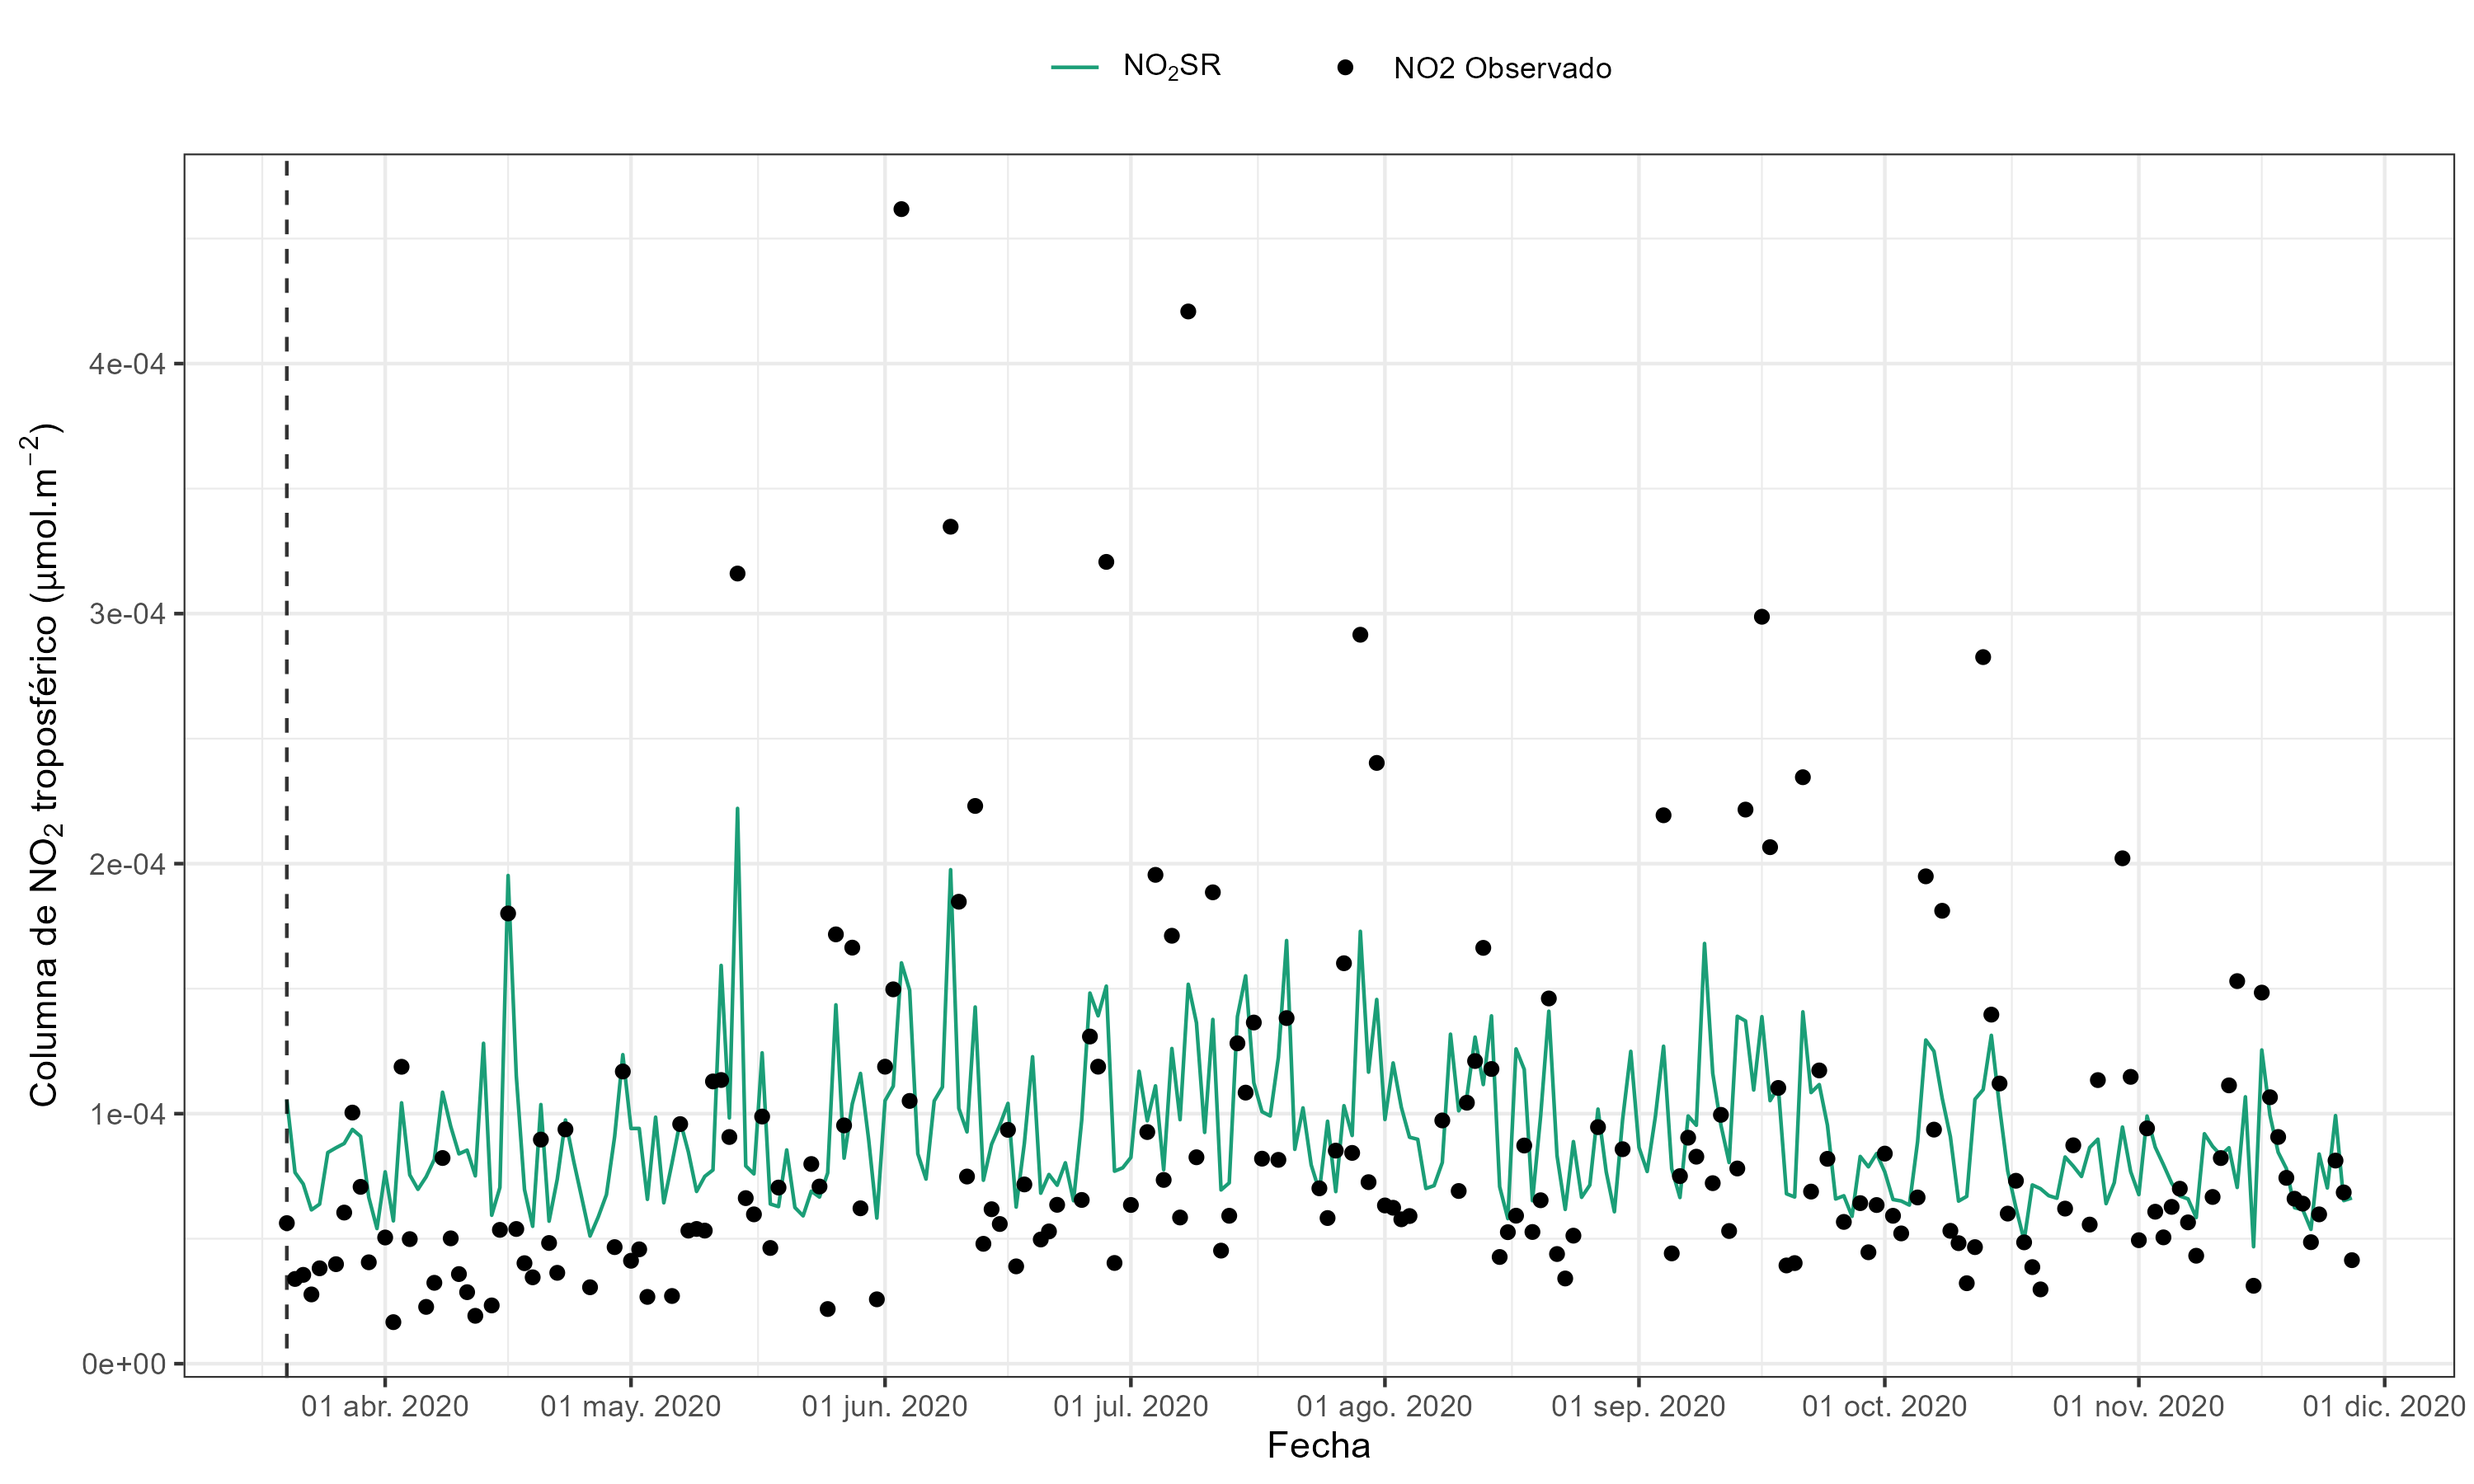
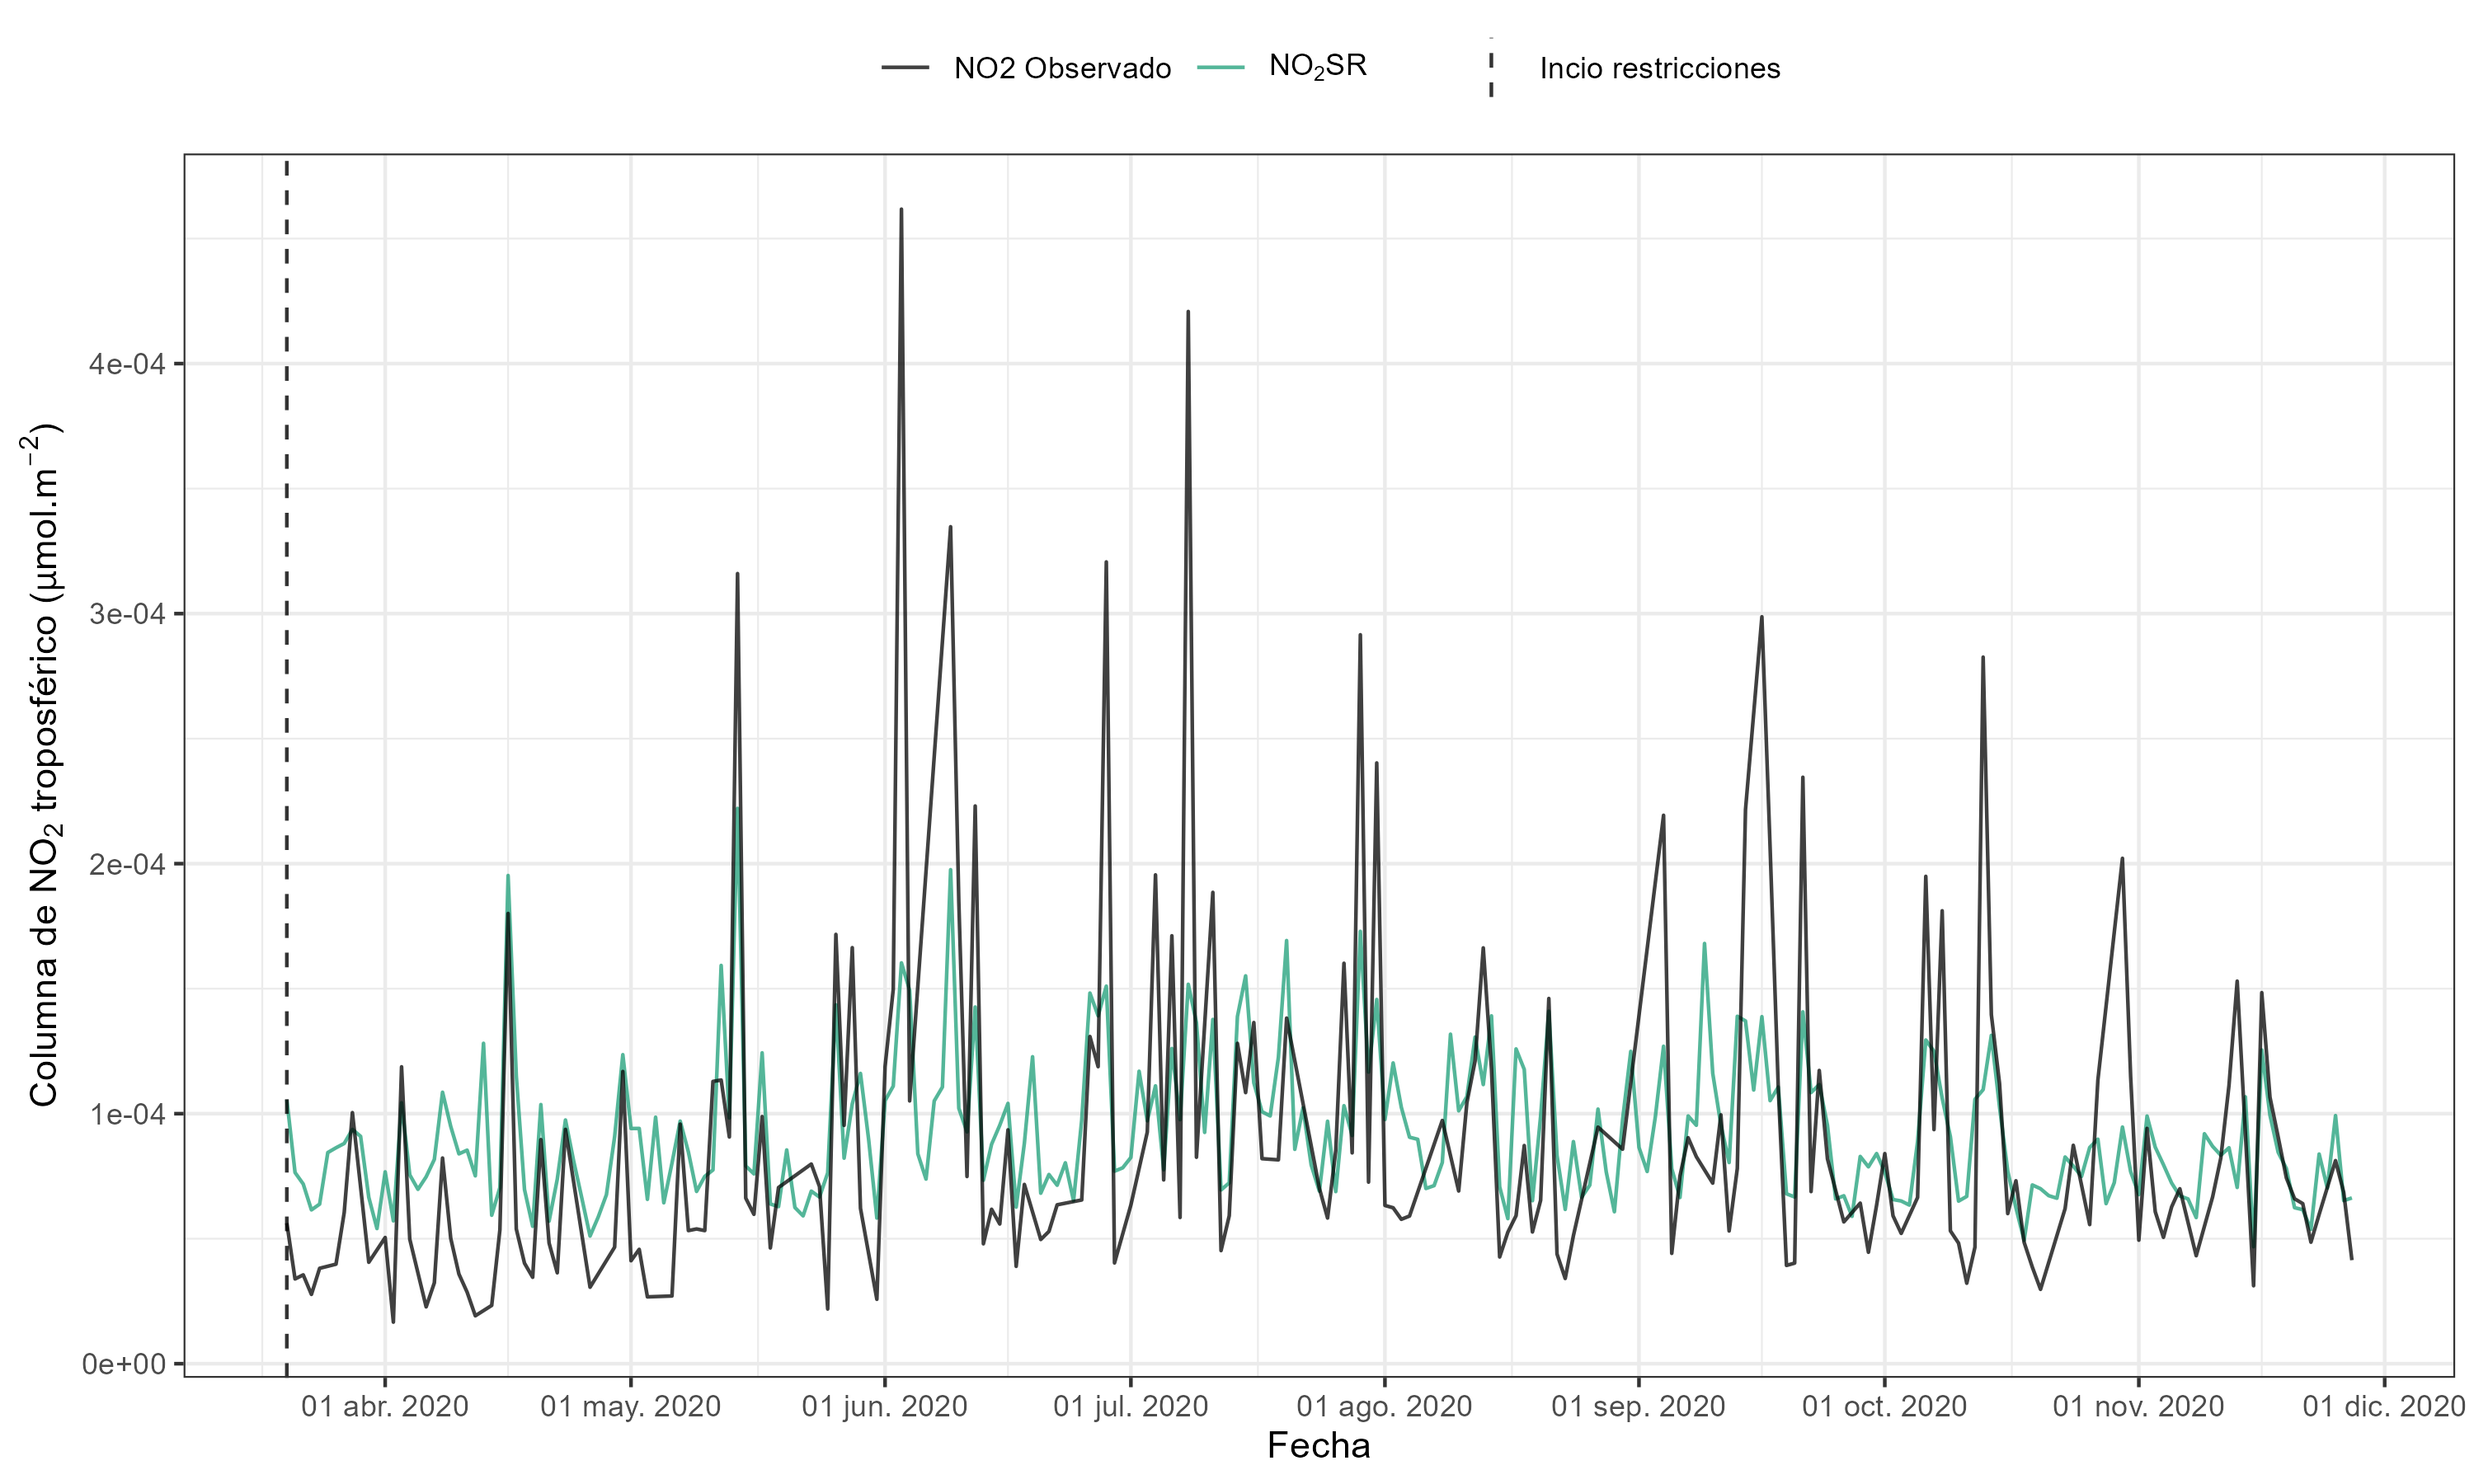
correcciones

Changed region(s): [[0.093, 0.2489, 0.961, 0.9022], [0.372, 0.0311, 0.713, 0.0622]]

diff --git a/Tablas/Resultados/comparacion_reducciones_no2_vehiculos.tex b/Tablas/Resultados/comparacion_reducciones_no2_vehiculos.tex
@@ -1,0 +1,20 @@
+% latex table generated in R 4.2.1 by xtable 1.8-4 package
+% Sat Apr  6 16:13:40 2024
+\begin{table}[ht]
+\centering
+\begin{tabular}{lrr}
+  \hline
+Mes y año & Reducción estimada NO\textsubscript{2} (%) & Reducción estimada conteo vehicular (%) \\ 
+  \hline
+abr. 2020 & 38.66 & 61.37 \\ 
+  ago. 2020 & 21.80 & 40.43 \\ 
+  jul. 2020 & -8.10 & 49.79 \\ 
+  jun. 2020 & -7.21 & 45.68 \\ 
+  mar. 2020 & 2.68 & 26.27 \\ 
+  may. 2020 & 16.01 & 50.27 \\ 
+  nov. 2020 & 4.62 & 18.87 \\ 
+  oct. 2020 & -3.12 & 25.84 \\ 
+  sep. 2020 & -0.66 & 33.69 \\ 
+   \hline
+\end{tabular}
+\end{table}
